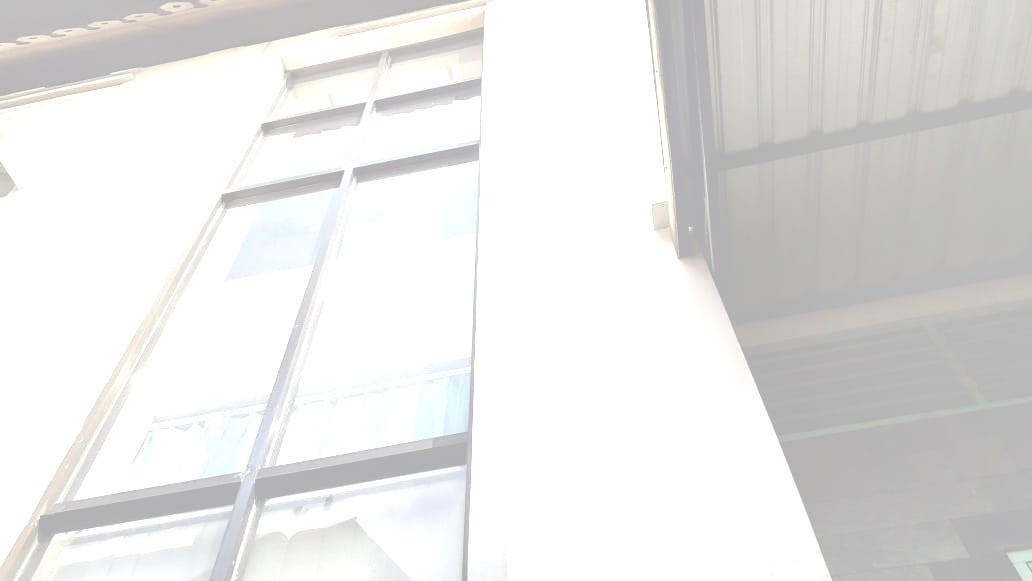
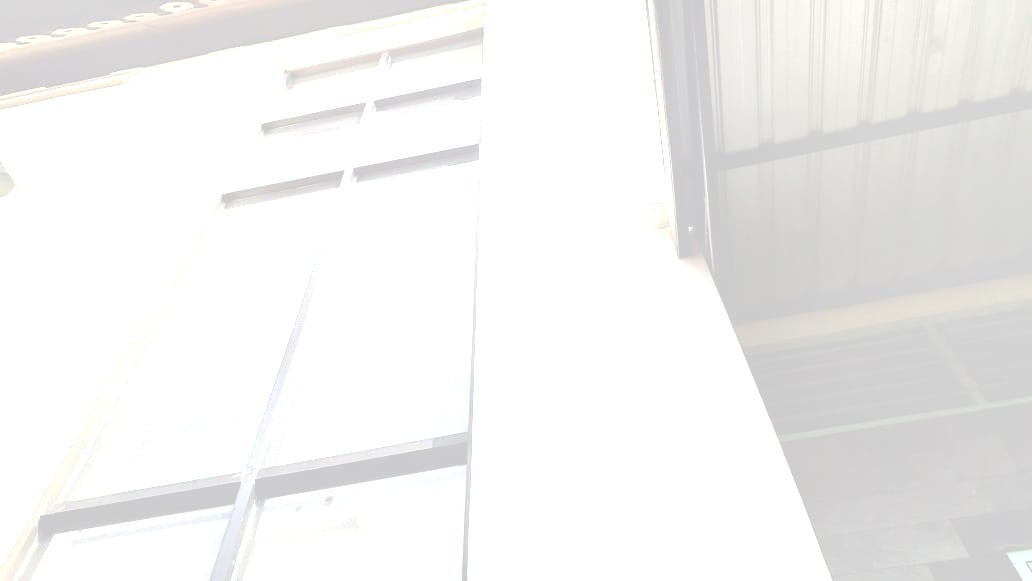
redirect jika gambar berubah

diff --git a/resources/views/livewire/image/main.blade.php b/resources/views/livewire/image/main.blade.php
@@ -1,7 +1,7 @@
 <div>
     <div class="container">
         <div class="col-md-12">
-            @if (session()->has('message'))
+            @if (session()->has('pesan-berhasil'))
                 <div class="col-md-12">
                     <div class="alert alert-warning">
                         {{ session('pesan-berhasil') }}
@@ -34,6 +34,6 @@
         
         <hr>
         <button class="btn btn-primary mb-4" wire:click="bright($event.target.value)" value="{{$image}}">Bright</button>
-        
+        <button class="btn btn-primary mb-4" wire:click="blur($event.target.value)" value="{{$image}}">Blur</button>
     </div>
 </div>

diff --git a/app/Http/Livewire/Image/Main.php b/app/Http/Livewire/Image/Main.php
@@ -22,10 +22,10 @@ class Main extends Component
         $this->hapus_temporary($value);
         
         $img = Image::make('public/'.$value);
-        $img->brightness(70);
+        $img->brightness(80);
         $img->save('public/temporary/'.'temp_'.$value);
         
-         Session::flash('pesan-berhasil',"Method brightness berhasil dijalankan");
+        return redirect()->route('/')->with("pesan-berhasil","Method brightness berhasil dijalankan");
     }
     
     public function render()
